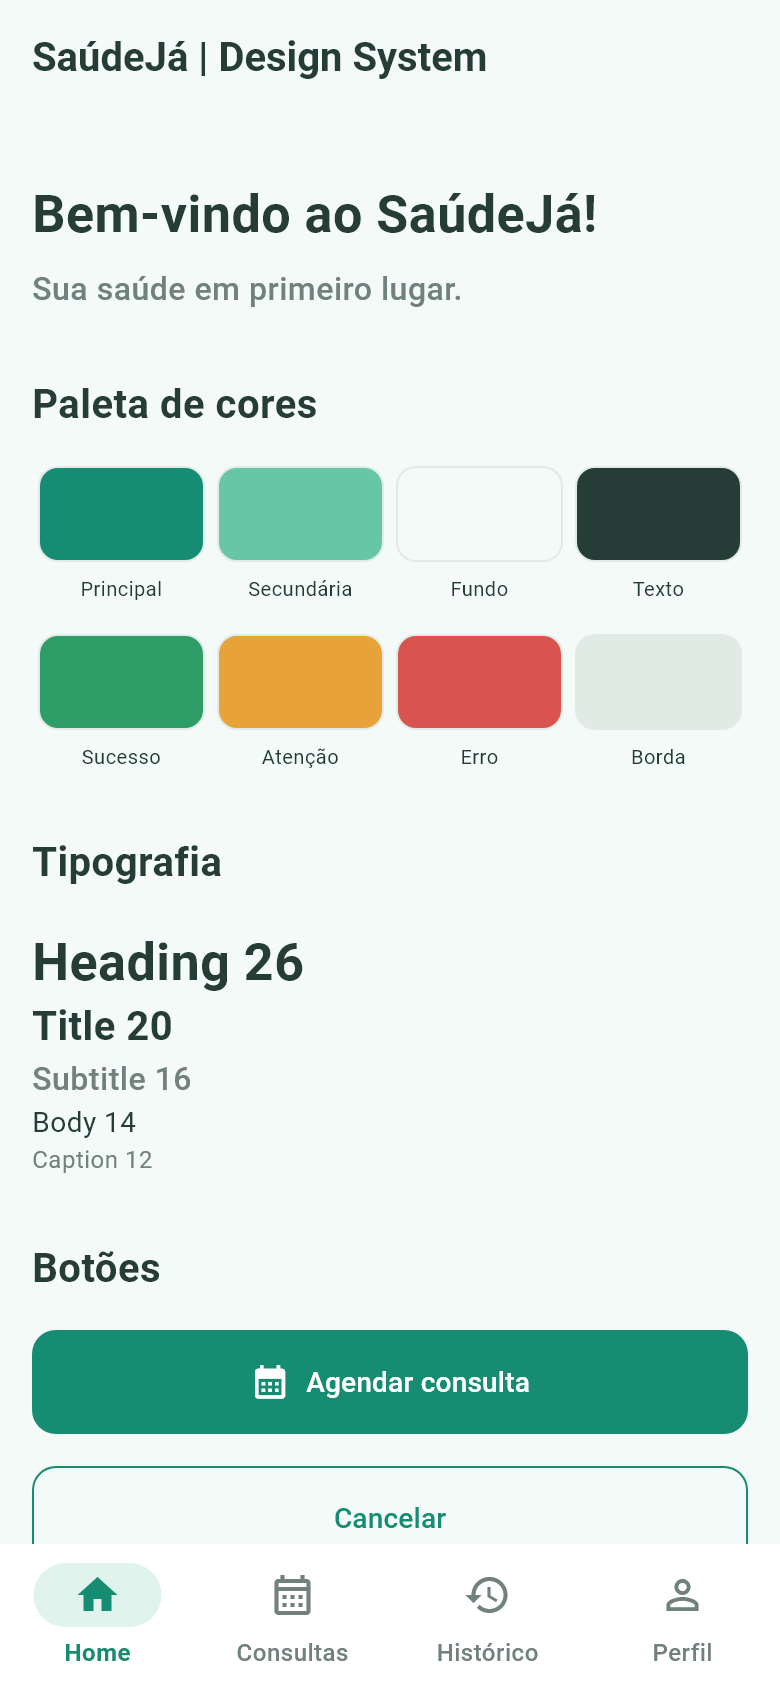
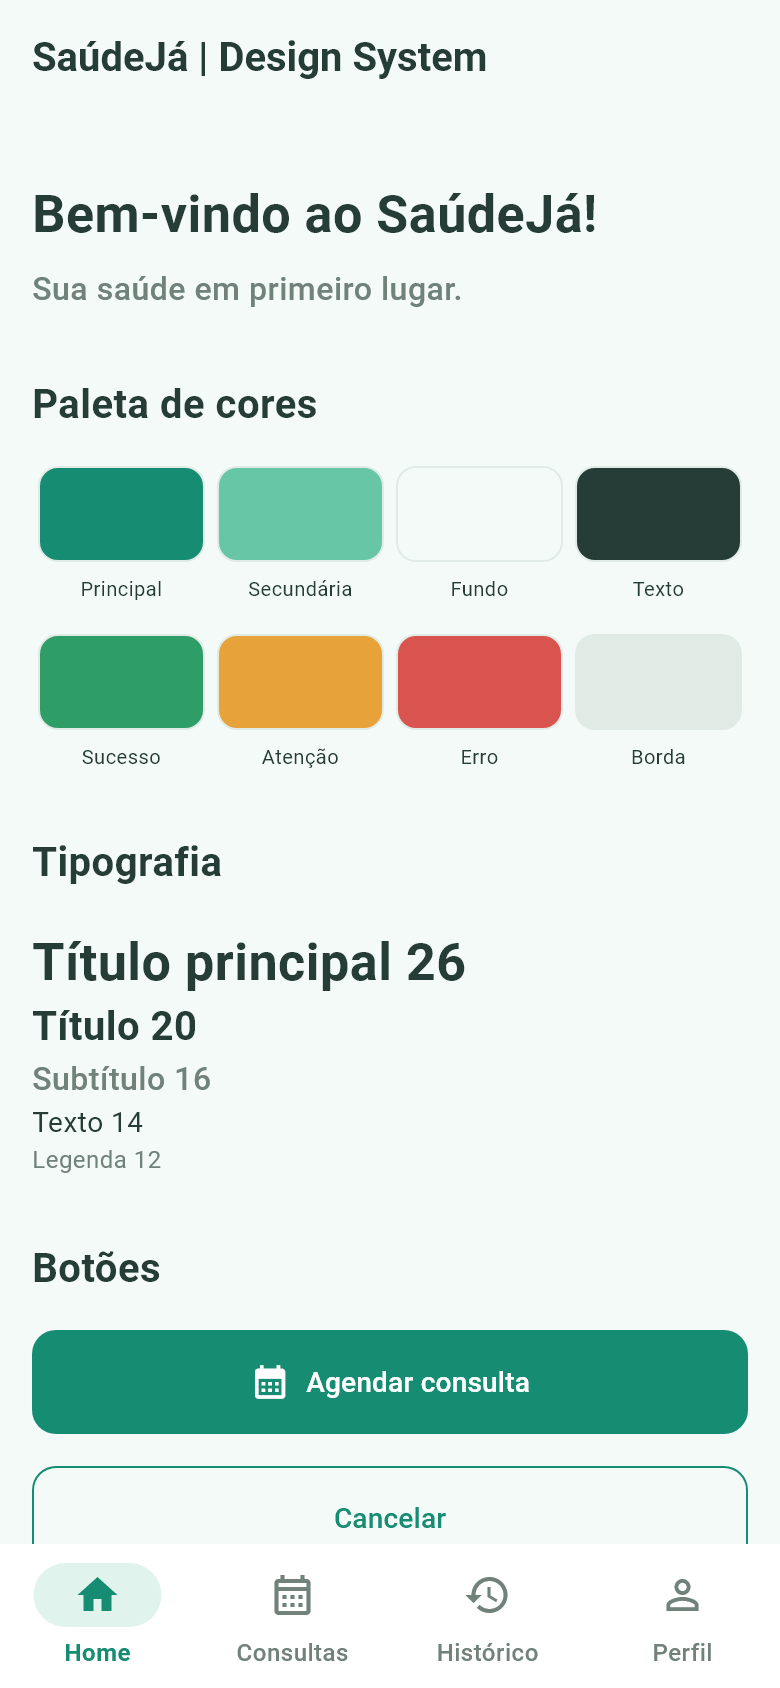
fix: nomes da tipografia do Sample App em português
- Heading/Title/Subtitle/Body/Caption viram Título principal, Título,
  Subtítulo, Texto e Legenda
- prints 09 e 10 do README atualizados

Changed region(s): [[0.0308, 0.5545, 0.6154, 0.7085]]

diff --git a/lib/design_system/sample_app/sample_app.dart b/lib/design_system/sample_app/sample_app.dart
@@ -150,11 +150,11 @@ class _SampleAppState extends State<SampleApp> {
 
   List<Widget> _typography() => [
     const _Section('Tipografia'),
-    const Text('Heading 26', style: AppTypography.heading),
-    const Text('Title 20', style: AppTypography.title),
-    const Text('Subtitle 16', style: AppTypography.subtitle),
-    const Text('Body 14', style: AppTypography.body),
-    const Text('Caption 12', style: AppTypography.caption),
+    const Text('Título principal 26', style: AppTypography.heading),
+    const Text('Título 20', style: AppTypography.title),
+    const Text('Subtítulo 16', style: AppTypography.subtitle),
+    const Text('Texto 14', style: AppTypography.body),
+    const Text('Legenda 12', style: AppTypography.caption),
   ];
 
   List<Widget> _buttons() => [
